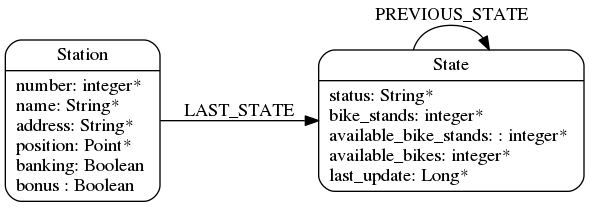
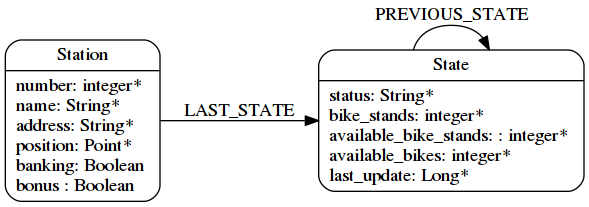
Draft of monitoring neo4j with influxdb

diff --git a/docs/2017/02/06/fr-jcdecaux-cycle-neo4j.html b/docs/2017/02/06/fr-jcdecaux-cycle-neo4j.html
@@ -198,7 +198,7 @@ Avec ce système je n&#8217;ai qu&#8217;à traverser une seule relation, et je 
 </div>
 <div class="imageblock">
 <div class="content">
-<img src="/public/images/diag/diag-74331910fff57af03e80c64bc790e020.png" alt="diag 74331910fff57af03e80c64bc790e020" width="1279" height="261">
+<img src="/public/images/diag/diag-74331910fff57af03e80c64bc790e020.png" alt="diag 74331910fff57af03e80c64bc790e020" width="1279" height="259">
 </div>
 </div>
 <div class="paragraph">

diff --git a/docs/2017/02/06/jcdecaux-cycle-neo4j.html b/docs/2017/02/06/jcdecaux-cycle-neo4j.html
@@ -193,7 +193,7 @@ So let&#8217;s create a chain of <code>State</code> nodes.</p>
 </div>
 <div class="imageblock">
 <div class="content">
-<img src="/public/images/diag/diag-74331910fff57af03e80c64bc790e020.png" alt="diag 74331910fff57af03e80c64bc790e020" width="1279" height="261">
+<img src="/public/images/diag/diag-74331910fff57af03e80c64bc790e020.png" alt="diag 74331910fff57af03e80c64bc790e020" width="1279" height="259">
 </div>
 </div>
 <div class="paragraph">
